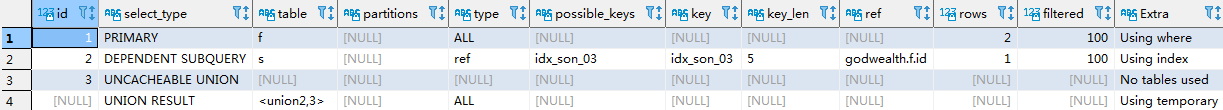
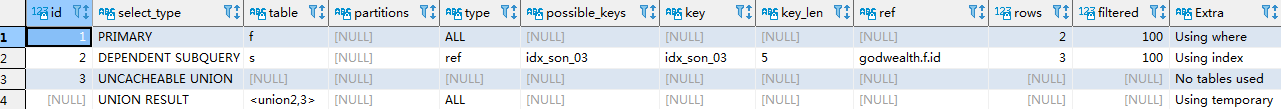
Explain

diff --git a/BaseJava/Sql/Mysql/Explain.md b/BaseJava/Sql/Mysql/Explain.md
@@ -35,12 +35,13 @@ CREATE TABLE `son` (
   KEY `idx_son_03` (`father_id`) USING BTREE
 ) ENGINE=InnoDB DEFAULT CHARSET=utf8 ROW_FORMAT=DYNAMIC COMMENT='son'
 
-INSERT INTO godwealth.son (name,age,father_id) VALUES
-	 ('小王',30,1),
-	 ('小李子',30,2);
-INSERT INTO godwealth.father (name,age) VALUES
-	 ('老王',30),
-	 ('老王',30);
+INSERT INTO son (name,age,father_id) VALUES
+	 ('xiaowang',10,1),
+	 ('dawang',10,1),
+	 ('xiaoli',10,2);
+INSERT INTO father (name,age) VALUES
+	 ('laowang',30),
+	 ('laoli',30);
 ```
 
 以下面的查询SQL为例：
@@ -148,7 +149,7 @@ explain select * from father
 
 **性能排序**：null->system->const->eq-ref->ref->fulltext->ref_or_null->index_merge->unique_subquery->index_subquery->range->index->ALL
 
-1. null，不访问任何一个表格
+1. **null**，不访问任何一个表格
 
    ```sql
    explain select now();
@@ -156,9 +157,9 @@ explain select * from father
 
    ![explain_type_null](Explain.assets/explain_type_null.png)
 
-2. system，表中只有一条数据，相当于系统表； 这个类型是特殊的 `const` 类型。
+2. **system**，表中只有一条数据，相当于系统表； 这个类型是特殊的 `const` 类型。
 
-3. const，主键或者唯一索引的常量查询，表格最多只有1行记录符合查询，通常const使用到主键或者唯一索引进行定值查询，常量查询非常快。
+3. **const**，主键或者唯一索引的常量查询，表格最多只有1行记录符合查询，通常const使用到主键或者唯一索引进行定值查询，常量查询非常快。
 
    ```sql
    explain select * from father where id = 1;
@@ -166,28 +167,41 @@ explain select * from father
 
    ![explian_type_const](Explain.assets/explian_type_const.png)
 
-4. eq_ref
+4. **eq_ref**，除了system和const类型之外,效率最高的连接类型；唯一索引扫描，对于每个索引键，表中只有一条记录与之对应；常用于主键或唯一索引扫描。
 
-   - join 查询过程中，关联条件为主键或者唯一索引，出来的行数不止一行
-   - eq_ref是一种性能非常好的 join 操作。
-   - 例子说明：首先从su表格查询所有数据共7行出来，然后每一行跟 xin 的主键id中的1行做匹配。
-   - ![img](https://images2017.cnblogs.com/blog/608061/201711/608061-20171119220433765-1802813303.png)
+   ```sql
+   explain select * from son s join father f on s.father_id = f.id where s.name = 'xiaowang';
+   ```
 
-5. ref
+   ![explain_type_eq_ref](Explain.assets/explain_type_eq_ref.png)
 
-   - 非聚集索引的常量查询
-   - 性能也是很不错的。
-   - ![img](https://images2017.cnblogs.com/blog/608061/201711/608061-20171119220526796-647910285.png)![img]()
+5. **ref**，非聚集索引的常量查询
 
-6. fulltext
+   ```sql
+   explain select * from father f where f.age = 1;
+   ```
 
-   - 查询的过程中，使用到了 fulltext 索引（fulltext index在innodb引擎中，只有5.6版本之后的支持）
-   - 例子是innodb引擎下、带fulltext index的表格查询
-   - ![img](https://images2017.cnblogs.com/blog/608061/201711/608061-20171119220540265-1865474177.png)![img]()
+   ![explain_type_ref](Explain.assets/explain_type_ref.png)
+
+6. **fulltext**，查询的过程中，使用到了 fulltext 索引（fulltext index在innodb引擎中，只有5.6版本之后的支持）
+
+   ```sql
+   ALTER TABLE father ADD FULLTEXT(name);
+   explain select * from father where match(name) AGAINST('xiaowang')
+   ```
+
+   ![explain_type_fulltext](Explain.assets/explain_type_fulltext.png)
 
 7. ref_or_null
 
    - 跟ref查询类似，在ref的查询基础上，不过会加多一个null值的条件查询
+
+     ```sql
+     explain select * from father f where f.age = 1 or f.age is null;
+     ```
+
+     
+
    - ![img](https://images2017.cnblogs.com/blog/608061/201711/608061-20171119220600312-1531705376.png)![img]()
 
 8. index merg
